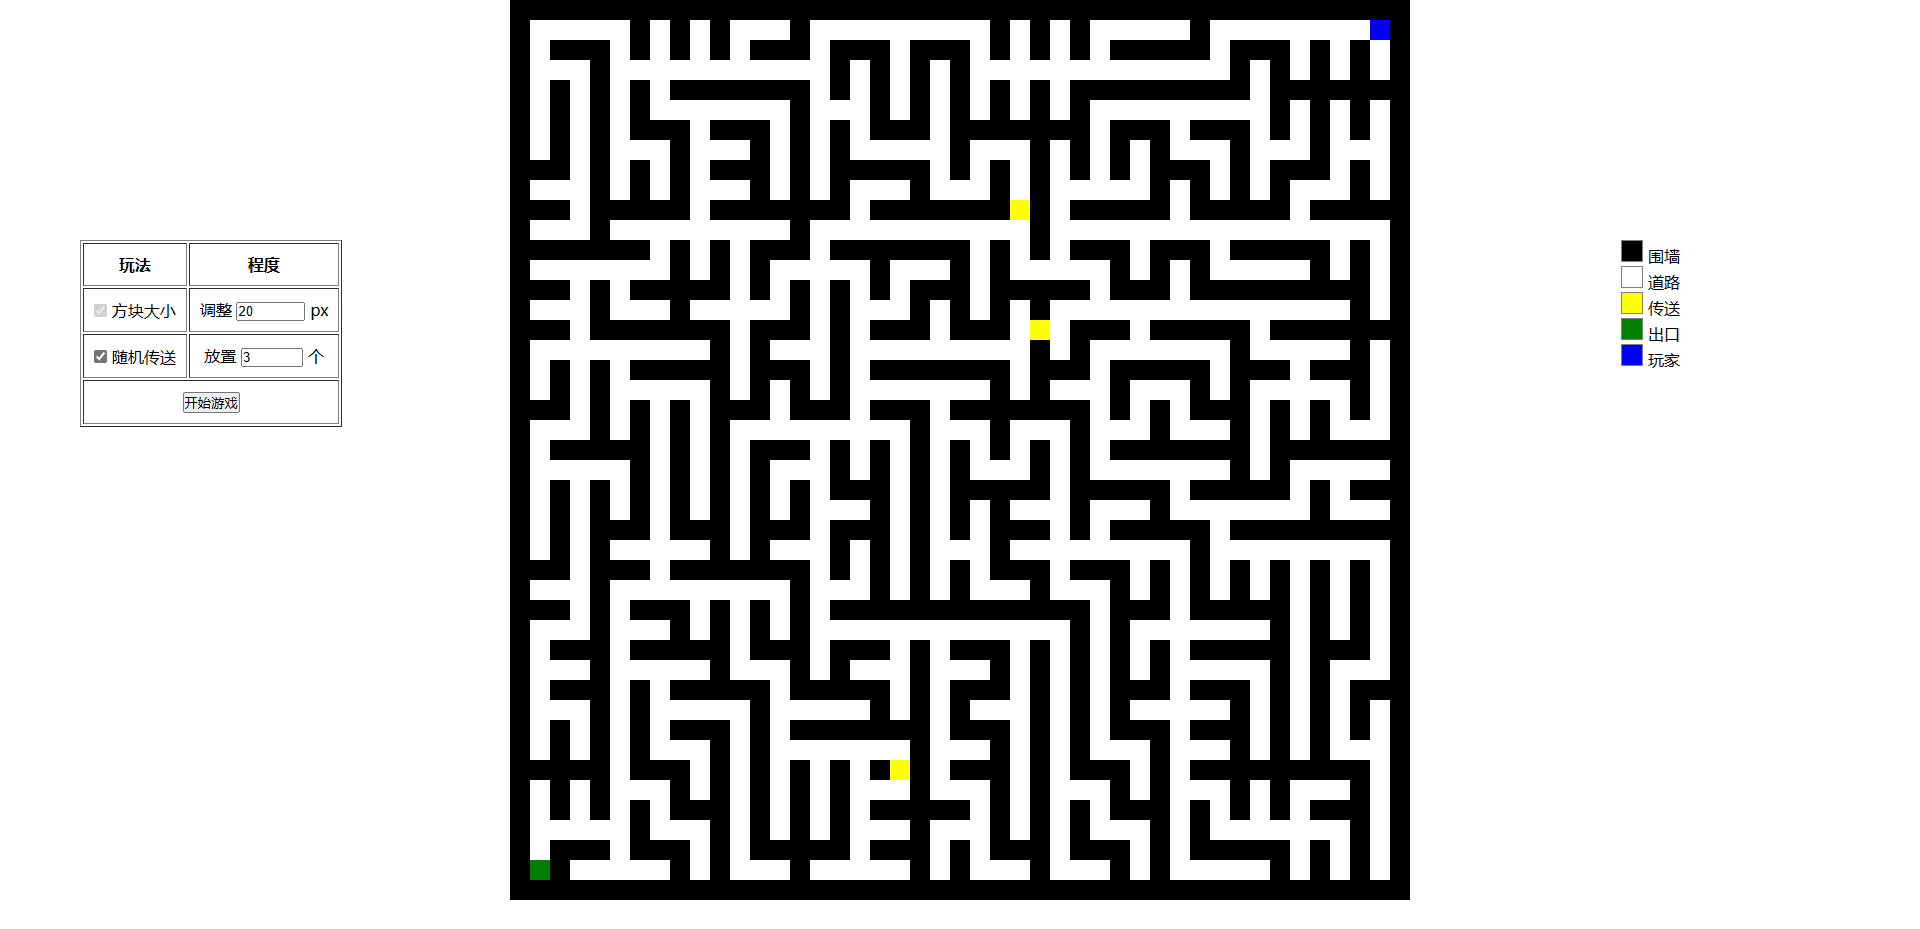
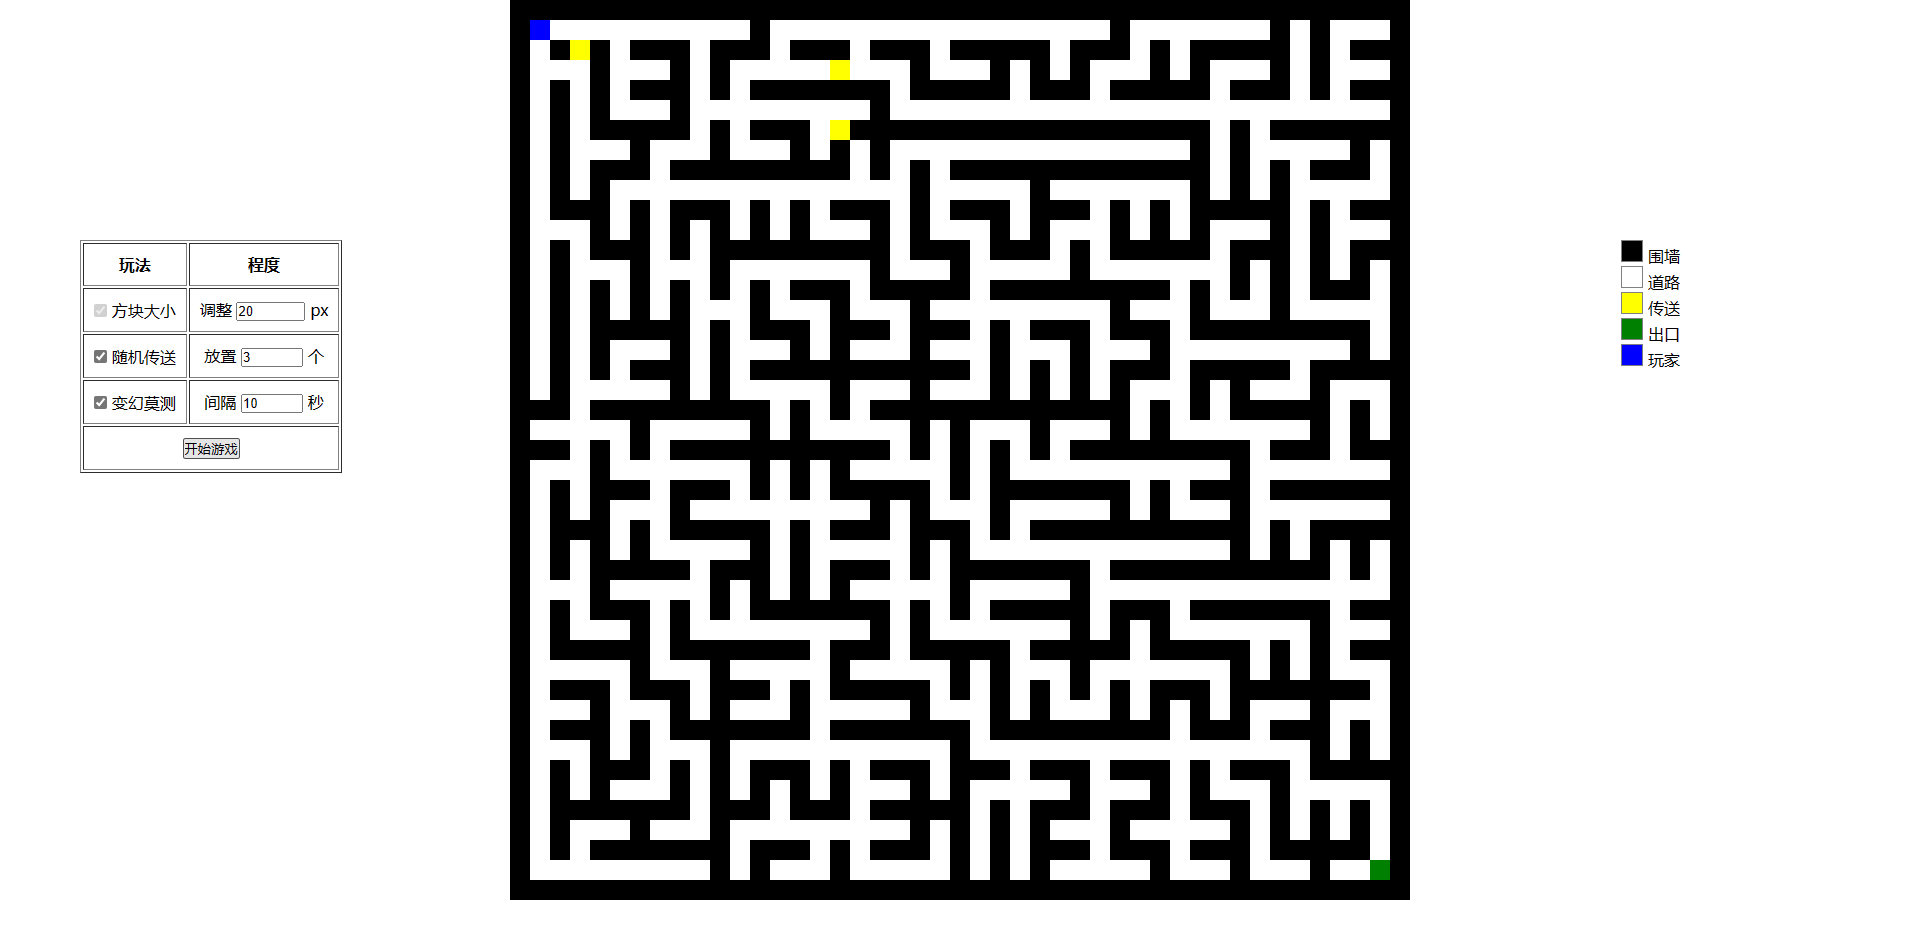
新增玩法：变幻莫测

Changed region(s): [[0.25, 0.0, 0.75, 0.9677], [0.0625, 0.4058, 0.125, 0.4995]]

diff --git a/static/js/main.js b/static/js/main.js
@@ -5,7 +5,9 @@ const
 const
     diamondSize = document.getElementById("diamondSize"),
     randomTransferCheckBox = document.getElementById("randomTransferCheckBox"),
-    randomTransferCount = document.getElementById("randomTransferCount");
+    randomTransferCount = document.getElementById("randomTransferCount"),
+    convertCheckBox = document.getElementById("convertCheckBox"),
+    convertSecond = document.getElementById("convertSecond");
 
 const
     WALL = 0,
@@ -25,6 +27,11 @@ function startGame() {
         transferCount = parseInt(randomTransferCount.value);
     }
 
+    let interval = 0;
+    if (convertCheckBox.checked) {
+        interval = parseInt(convertSecond.value);
+    }
+
     let side = Math.floor((window.innerHeight - space * 2) / space);
     side = side % 2 ? side : side - 1;
 
@@ -32,24 +39,27 @@ function startGame() {
     canvas.width = side * space;
     canvas.height = side * space;
 
-    maze = new Maze(context, side, side, space, transferCount);
+    if (maze) maze.stop();
+    maze = new Maze(context, side, side, space, transferCount, interval);
     maze.start();
 
     return false;
 }
 
 class Maze {
-    constructor(context, row, col, space, transferCount) {
+    constructor(context, row, col, space, transferCount, interval) {
         this.context = context;
         this.y = row;
         this.x = col;
         this.space = space;
         this.transferCount = transferCount;
+        this.interval = interval;
 
         this.dir = [[-1, 0], [0, 1], [1, 0], [0, -1]];
-        this.now = [];
-        this.end = [];
+        this.now = [0, 0];
+        this.end = [col - 1, row - 1];
         this.map = [];
+        this.timer = null;
         this.legend = {
             [WALL]: "black",
             [ROAD]: "white",
@@ -84,10 +94,12 @@ class Maze {
     }
 
     setStartAndEnd() {
-        let corner = [[0, 0], [this.x - 1, 0], [0, this.y - 1], [this.x - 1, this.y - 1]];
+        if (!this.interval) {
+            let corner = [[0, 0], [this.x - 1, 0], [0, this.y - 1], [this.x - 1, this.y - 1]];
 
-        this.now = corner.splice(this.random(0, corner.length - 1), 1)[0];
-        this.end = corner.splice(this.random(0, corner.length - 1), 1)[0];
+            this.now = corner.splice(this.random(0, corner.length - 1), 1)[0];
+            this.end = corner.splice(this.random(0, corner.length - 1), 1)[0];
+        }
 
         this.setMap(this.now, PLAYER);
         this.setMap(this.end, EXIT);
@@ -113,8 +125,19 @@ class Maze {
     }
 
     prim() {
-        let stack = [[0, 1], [1, 0]];
-        this.setMap([0, 0], ROAD);
+        let [nowX, nowY] = this.now;
+        if (nowX % 2 === 1) nowX--;
+        if (nowY % 2 === 1) nowY--;
+        this.now = [nowX, nowY];
+
+        let stack = [];
+        for (let curDir of this.dir) {
+            let wall = this.turnTo(this.now, curDir);
+            if (this.isSecurityScope(wall)) {
+                stack.push(wall);
+            }
+        }
+        this.setMap(this.now, ROAD);
 
         while (stack.length > 0) {
             let curWall = stack.splice(this.random(0, stack.length - 1), 1)[0];
@@ -156,6 +179,7 @@ class Maze {
                     }
                     break;
                 case 3:
+                    this.stop();
                     if (confirm("恭喜通关！\n是否继续以当前设置开始新的迷宫？")) {
                         this.start();
                     }
@@ -180,11 +204,18 @@ class Maze {
     }
 
     start() {
+        if (this.interval) {
+            this.timer = setTimeout(() => this.start(), this.interval * 1000);
+        }
         this.resetMap();
         this.prim();
         this.setStartAndEnd();
         this.setRandomTransfer();
         this.draw();
+    }
+
+    stop() {
+        clearTimeout(this.timer);
     }
 }
 

diff --git a/index.html b/index.html
@@ -17,11 +17,15 @@
             </tr>
             <tr>
                 <td><label><input type="checkbox" checked disabled> 方块大小</label></td>
-                <td><label>调整 <input type="number" min="5" max="100" value="20" required id="diamondSize" name="size"> px</label></td>
+                <td><label>调整 <input type="number" min="5" max="100" value="20" required id="diamondSize"> px</label></td>
             </tr>
             <tr>
                 <td><label><input type="checkbox" id="randomTransferCheckBox"> 随机传送</label></td>
-                <td><label>放置 <input type="number" min="1" max="10" value="3" id="randomTransferCount" name="count"> 个</label></td>
+                <td><label>放置 <input type="number" min="1" max="10" value="3" id="randomTransferCount"> 个</label></td>
+            </tr>
+            <tr>
+                <td><label><input type="checkbox" id="convertCheckBox"> 变幻莫测</label></td>
+                <td><label>间隔 <input type="number" min="1" max="60" value="10" id="convertSecond"> 秒</label></td>
             </tr>
             <tr>
                 <td colspan="2">
